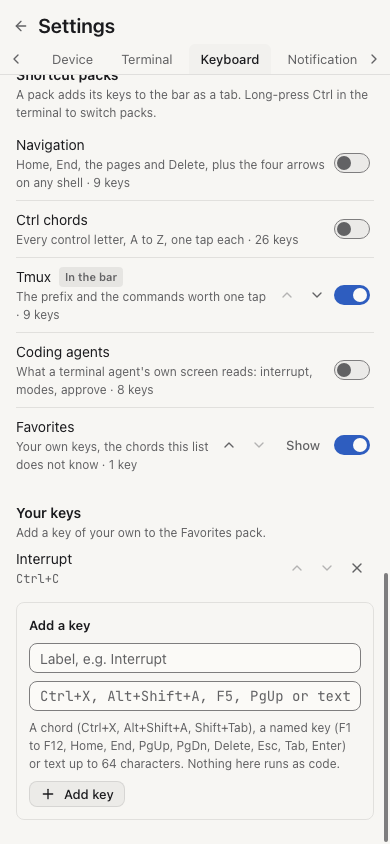
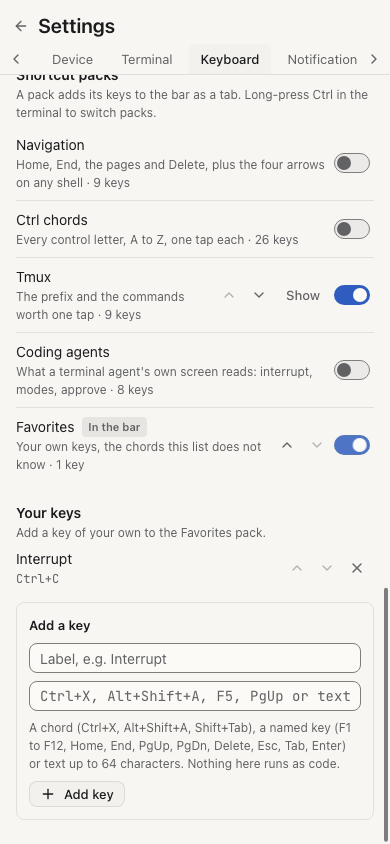
fix(web): the preview draws the rows the list edits, and the bar's ink is checked in both themes
The preview was the live bar component, so it drew the active pack's keys where the list below shows the bar's own, and
in the night theme its masked, blurred scroller painted no keys at all. It now draws the configured row as inert pills
and the enabled packs as their own tab row (the active one pressed), which is exactly what Settings > Keyboard edits.

A new e2e opens the page in the day and night themes and fails if any key's ink falls under 4.5:1 against the surface it
sits on, so a vanished theme cannot pass again. Captures re-shot; a key added to Favorites now selects it, and the bar's
comment says the order it draws.

Refs #770

diff --git a/apps/web/e2e/keyboard-settings.e2e.ts b/apps/web/e2e/keyboard-settings.e2e.ts
@@ -38,21 +38,19 @@ test("a pack added in Settings puts its keys in the bar, and the bar keeps that 
 }) => {
   await openSettings(page);
   const preview = page.locator("[data-key-bar-preview]");
-  await expect(preview.locator('[aria-label="Tmux prefix"]')).toHaveCount(0);
+  await expect(preview.locator("[data-pack-tab]")).toHaveCount(0);
 
   const tmux = page.locator('[data-pack-row="tmux"]').getByRole("switch");
   await tmux.click();
   await expect(tmux).toHaveAttribute("aria-checked", "true");
-  // The preview follows the change at once: the pack's keys are in the bar before the terminal is opened.
-  await expect(preview.locator('[aria-label="Tmux prefix"]')).toHaveCount(1);
+  // The preview shows the row the list edits, and the pack it was given as a tab of its own, pressed because the bar leads
+  // with it.
+  await expect(preview.locator("[data-preview-key]")).toHaveCount(await page.locator("[data-key-row]").count());
+  await expect(preview.getByRole("button", { name: "Tmux" })).toHaveAttribute("aria-pressed", "true");
 
-  // The pack's keys lead: picking a pack in the panel must show its keys, not push them past the person's own.
-  const first = preview.locator("button").first();
-  await expect(first).toHaveAttribute("aria-label", "Tmux prefix");
-  const rows = page.locator("[data-key-row]");
-  await expect(rows.first()).toHaveAttribute("data-key-row", "ctrl");
   // The add form scrolled the body: bring the rows back into view before dragging one.
   await page.locator('[data-key-row="ctrl"]').scrollIntoViewIfNeeded();
+  await expect(page.locator("[data-key-row]").first()).toHaveAttribute("data-key-row", "ctrl");
   const moving = await page.locator('[data-key-row="esc"]').boundingBox();
   const landing = await page.locator('[data-key-row="ctrl"]').boundingBox();
   if (moving === null || landing === null) throw new Error("the key rows were not drawn");
@@ -60,7 +58,9 @@ test("a pack added in Settings puts its keys in the bar, and the bar keeps that 
   await page.mouse.down();
   await page.mouse.move(landing.x + 24, landing.y - 6, { steps: 10 });
   await page.mouse.up();
-  await expect(rows.first()).toHaveAttribute("data-key-row", "esc");
+  await expect(page.locator("[data-key-row]").first()).toHaveAttribute("data-key-row", "esc");
+  // The preview follows the drag: its first key is the one the list now puts first.
+  await expect(preview.locator("[data-preview-key]").first()).toHaveAttribute("data-preview-key", "esc");
 
   const terminal = await openTerminal(page);
   const bar = keysBar(page);
@@ -85,7 +85,7 @@ test("a key of the person's own is checked, stored and sent by the bar", async (
   await page.getByLabel("Keys it sends").fill("echo hello-from-a-key");
   await page.getByRole("button", { name: "Add key" }).click();
   await expect(page.locator("[data-favorite-row]")).toHaveCount(1);
-  await expect(page.locator("[data-key-bar-preview]").locator('[aria-label="Shout"]')).toHaveCount(1);
+  await expect(page.locator('[data-pack-tab="favorites"]')).toHaveAttribute("aria-pressed", "true");
 
   const terminal = await openTerminal(page);
   await page.getByRole("button", { name: "Shout", exact: true }).click();
@@ -104,12 +104,49 @@ test("an entry that names no key is refused with a reason and stored nowhere", a
 test("a key removed from the bar is listed as not in it, and one tap puts it back", async ({ page }) => {
   await openSettings(page);
   const preview = page.locator("[data-key-bar-preview]");
-  await expect(preview.locator('[aria-label="Escape"]')).toHaveCount(1);
+  await expect(preview.locator('[data-preview-key="esc"]')).toHaveCount(1);
   await page.getByRole("button", { name: "Remove Escape" }).click();
-  await expect(preview.locator('[aria-label="Escape"]')).toHaveCount(0);
+  await expect(preview.locator('[data-preview-key="esc"]')).toHaveCount(0);
   await page.getByRole("button", { name: "Add Escape" }).click();
-  await expect(preview.locator('[aria-label="Escape"]')).toHaveCount(1);
+  await expect(preview.locator('[data-preview-key="esc"]')).toHaveCount(1);
 });
+
+const channels = (value: string): readonly number[] => value.match(/[\d.]+/g)?.map(Number) ?? [];
+
+const linear = (value: number): number => {
+  const scaled = value / 255;
+  return scaled <= 0.03928 ? scaled / 12.92 : ((scaled + 0.055) / 1.055) ** 2.4;
+};
+
+const luminance = (value: string): number => {
+  const [r = 0, g = 0, b = 0] = channels(value);
+  return 0.2126 * linear(r) + 0.7152 * linear(g) + 0.0722 * linear(b);
+};
+
+const contrast = (a: string, b: string): number => {
+  const [light = 0, dark = 0] = [luminance(a), luminance(b)].toSorted((left, right) => right - left);
+  return (light + 0.05) / (dark + 0.05);
+};
+
+for (const theme of ["day", "night"] as const) {
+  test(`the preview draws the bar's keys and they stay readable in the ${theme} theme`, async ({ page }) => {
+    await page.emulateMedia({ colorScheme: theme === "day" ? "light" : "dark" });
+    await page.addInitScript(
+      (chosen: string) => localStorage.setItem("doriface.appearance", JSON.stringify({ theme: chosen, custom: [] })),
+      theme,
+    );
+    await openSettings(page);
+    const pills = page.locator("[data-key-bar-preview] [data-preview-key]");
+    await expect(pills.first()).toBeVisible();
+    expect(await pills.count()).toBeGreaterThan(5);
+    // Every key's ink against the surface it is drawn on: a bar whose text vanished in one theme fails here.
+    const surface = await pills
+      .first()
+      .evaluate((pill) => getComputedStyle(pill.parentElement ?? pill).backgroundColor);
+    const colors = await pills.evaluateAll((all) => all.map((pill) => getComputedStyle(pill).color));
+    expect(Math.min(...colors.map((color) => contrast(color, surface)))).toBeGreaterThanOrEqual(4.5);
+  });
+}
 
 test("holding Ctrl opens the packs panel without latching it, while a tap still latches", async ({ page }) => {
   await openSettings(page);

diff --git a/apps/web/src/settings/key-bar-preview.tsx b/apps/web/src/settings/key-bar-preview.tsx
@@ -1,6 +1,9 @@
-import { ExtraKeysBar } from "@doriface/ui";
-import { barGroups } from "../keybar/render.tsx";
+import { packName } from "../keybar/entries.ts";
+import { specialEntries } from "../keybar/entries.ts";
+import { setActivePack } from "../keybar/operations.ts";
+import { toExtra } from "../keybar/render.tsx";
 import type { KeyBarSettings } from "../keybar/settings.ts";
+import { keyBarStore } from "../keybar/store.ts";
 import type { HostPlatform } from "../terminal/keys.ts";
 
 export interface KeyBarPreviewProps {
@@ -8,19 +11,51 @@ export interface KeyBarPreviewProps {
   readonly host: HostPlatform;
 }
 
-/** What the bar will look like on the next terminal, drawn in place and inert: a picture, not a second set of keys. */
+/**
+ * What Settings > Keyboard is editing: the bar's own row, drawn from the same entries the terminal draws and inert, so a
+ * preview can never send anything. The packs the person turned on sit under it as their own row of tabs, the active one
+ * pressed, because a pack replaces what leads the terminal's bar.
+ */
 export function KeyBarPreview({ settings, host }: KeyBarPreviewProps) {
-  const { keys, packKeys } = barGroups(settings, host);
+  const keys = specialEntries(settings, host).map(toExtra);
   return (
-    <div className="overflow-hidden rounded-lg border border-border bg-card">
-      <div className="flex h-20 items-end justify-center px-4 pb-2">
-        <p className="text-center text-xs text-muted-foreground">
-          In the terminal, this is the row above your keyboard. Command appears where the host is a Mac.
-        </p>
+    <div className="overflow-hidden rounded-lg border border-border bg-card" data-key-bar-preview>
+      <p className="px-4 pt-4 pb-2 text-center text-xs text-muted-foreground">
+        In the terminal this row rides on your keyboard, and a pack's keys lead it. Command appears where the host is a
+        Mac.
+      </p>
+      <div inert className="flex flex-wrap items-center gap-1.5 border-t border-border bg-chrome px-2 py-2">
+        {keys.map((entry) => (
+          <span
+            key={entry.id}
+            data-preview-key={entry.id}
+            className="flex h-9 min-w-9 items-center justify-center rounded-full border border-border px-2.5 text-[0.8125rem] font-medium text-foreground [&_svg]:size-4"
+          >
+            {entry.label}
+          </span>
+        ))}
+        {keys.length === 0 ? <span className="px-2 text-xs text-muted-foreground">No keys in the bar.</span> : null}
       </div>
-      <div inert className="border-t border-border" data-key-bar-preview>
-        <ExtraKeysBar keys={keys} packKeys={packKeys} className="pb-1" />
-      </div>
+      {settings.packs.length === 0 ? null : (
+        <div
+          role="group"
+          aria-label="Pack tabs"
+          className="flex flex-wrap items-center gap-1.5 border-t border-border px-2 py-2"
+        >
+          {settings.packs.map((id) => (
+            <button
+              key={id}
+              type="button"
+              data-pack-tab={id}
+              aria-pressed={settings.activePack === id}
+              onClick={() => void keyBarStore.update((current) => setActivePack(current, id))}
+              className="h-9 rounded-full border border-border px-3 text-xs font-medium text-foreground outline-none active:bg-selected aria-pressed:bg-selected aria-pressed:text-foreground focus-visible:outline-2 focus-visible:outline-solid focus-visible:outline-ring"
+            >
+              {packName(id)}
+            </button>
+          ))}
+        </div>
+      )}
     </div>
   );
 }

diff --git a/apps/web/e2e/capture-keyboard-settings.e2e.ts b/apps/web/e2e/capture-keyboard-settings.e2e.ts
@@ -68,6 +68,8 @@ for (const theme of ["day", "night"] as const) {
         if (width === 390) await page.getByRole("tab", { name: "Keyboard" }).click();
         else await page.getByRole("button", { name: "Keyboard", exact: true }).click();
         await page.getByRole("switch", { name: "Add Tmux pack" }).click();
+        // The document is written before the tab says so: wait for that render, then leave the page.
+        await expect(page.locator('[data-pack-tab="tmux"]')).toHaveAttribute("aria-pressed", "true");
         await page.goto("/");
         await expect(page.getByRole("heading", { name: "Agents" })).toBeVisible({ timeout: 20_000 });
         await openPhoneTerminal(page, width);

diff --git a/DESIGN.md b/DESIGN.md
@@ -175,7 +175,7 @@ Every interactive primitive: hover, pressed, focus-visible (2 px `--ring` outlin
 
 **(d4) Settings: Mesh.** Primary action: Approve a pending join (Deny beside it as the secondary). Priorities: 1 what needs the owner (joins waiting for approval, members an undecidable revoke removed, sync STUCK), 2 every member grouped Online / Offline with its line, lineage and key fingerprint, 3 revoked keys. Left out on purpose: a revoke button (the CLI's preview and witness-pool warning stay the one path, so the panel shows the prefilled command to copy), per-member traffic numbers, the raw records. Required content: the document is advisory, so a disagreement with this device's machine.list (or a document written for another host) comes first as a warning; STUCK reasons; new-member notices (7 days) with who admitted the machine and its fingerprint; per pending join the joiner's name, the time left on the offer and its fingerprint in groups of four to compare with `mesh join`, with Approve and Deny, then the answer in place; per fail-closed removal the removed members, the revoked key behind it and the owner action (re-found or rotate keys) with its command and a copy button; per member name, this host or line state (unreachable and needs login in blocked ink, with how long), founder or admitted by, last sync, records to confirm, next try, fingerprint, the undecidable-revoke hint naming who to ask, and after 7 days unreachable the prefilled `mesh revoke` with a copy button; revoked keys with who revoked them and why. Group headers carry counts; the two that need the owner use the blocked status ink with their words. Layout: the settings list-detail line above; scroll owner `[data-slot=settings-body]`.
 
-**(d5) Settings: Keyboard (phone keys bar).** Primary action: put a key in the bar or take one out. Priorities: 1 the live preview of the bar, 2 the keys and their order, 3 packs and the person's own keys. Left out on purpose: a Save button (every change is stored at once), a raw bytes editor (the field takes a chord or text), any syncing of the document across devices. Required content: a preview of the bar drawn from the same component the terminal uses and inert, so it can never send anything; the keys in the bar as rows that drag and carry earlier/later arrows and a remove button; a reset to the default keys; the keys not in the bar, each with one tap to restore it where the list places it; each pack as a row with a switch that adds or removes its tab, arrows that order the tabs, Show for the pack the bar is drawing, and Favorites listing the person's own keys; an add form taking a label and what the key sends (Ctrl+X, Alt+Shift+A, Shift+Tab, F1 to F12, Home/End/PgUp/PgDn/Delete, or text), with a refused entry named beside the field and never stored. A Mac-only key (Command) is drawn where the device is a Mac, and the preview's caption says it depends on the host.
+**(d5) Settings: Keyboard (phone keys bar).** Primary action: put a key in the bar or take one out. Priorities: 1 the live preview of the bar, 2 the keys and their order, 3 packs and the person's own keys. Left out on purpose: a Save button (every change is stored at once), a raw bytes editor (the field takes a chord or text), any syncing of the document across devices. Required content: a preview of the bar's own row drawn from the same entries the terminal draws and inert, so it can never send anything, with the packs the person turned on under it as their own row of tabs (the active one pressed); the keys in the bar as rows that drag and carry earlier/later arrows and a remove button; a reset to the default keys; the keys not in the bar, each with one tap to restore it where the list places it; each pack as a row with a switch that adds or removes its tab, arrows that order the tabs, Show for the pack the bar is drawing, and Favorites listing the person's own keys; an add form taking a label and what the key sends (Ctrl+X, Alt+Shift+A, Shift+Tab, F1 to F12, Home/End/PgUp/PgDn/Delete, or text), with a refused entry named beside the field and never stored. A Mac-only key (Command) is drawn where the device is a Mac, and the preview's caption says it depends on the host.
 
 **(e) Phone.** Primary action: answer the blocked prompt (type or tap keys). Priorities: 1 the terminal, 2 the agent's state in the header, 3 extra keys. Left out: tab strip, status bar on the terminal screen. Required content: agents list (sections as in the shell, agents before spaces; with no terminal, "No terminals yet" with New terminal and Add a machine, and the machine list below only when machines are added), terminal header with back, name, status chip, an optional header action (the mic), a switch (a bottom sheet of every space and its tabs), actions, and under the name the machine and space, the tab's place in its space (`n/m`) and how many agents are done, working and idle (glyph and number; read as "2 done, 1 working, 3 idle"), 48 px is the header's minimum, not its height: when its content needs more room (text spacing, or a header action at 320) the second row wraps and the header grows, never cutting the position or the counts; terminal text that wraps to the width; the keys bar (one scrolling row: ctrl, cmd on a mac host, shift, tab, esc, the four arrow keys, the arrow pad, switch session and paste, then alt ~ | / - behind a swipe, latched shown; two fixed columns on the right: the input field with Send beside the keyboard button) while the keyboard is up, only a round keyboard button while it is down; the input field stays visible beside the scrolling keys, where the phone's keyboard composes the line and Send or Enter writes it with Return; a held finger on the terminal selects the word under it, drags the selection out from that word and lifts into Copy and Paste, while a tap still types and a drag still scrolls the scrollback; while the connection is not usable, one status line under the header ("Offline. Reconnects when the network is back." with a still glyph, or "Reconnecting in N s" with a spinner), gone once it is open: with no status bar on this screen, it is the only place the phone says so. The desktop status bar and the phone list say the same in their status bar ("Offline", or "Reconnecting in N s", "Reconnecting…" while an attempt runs). A link to this computer (the desktop app's This computer) is never called Offline: the network does not carry it.
 
